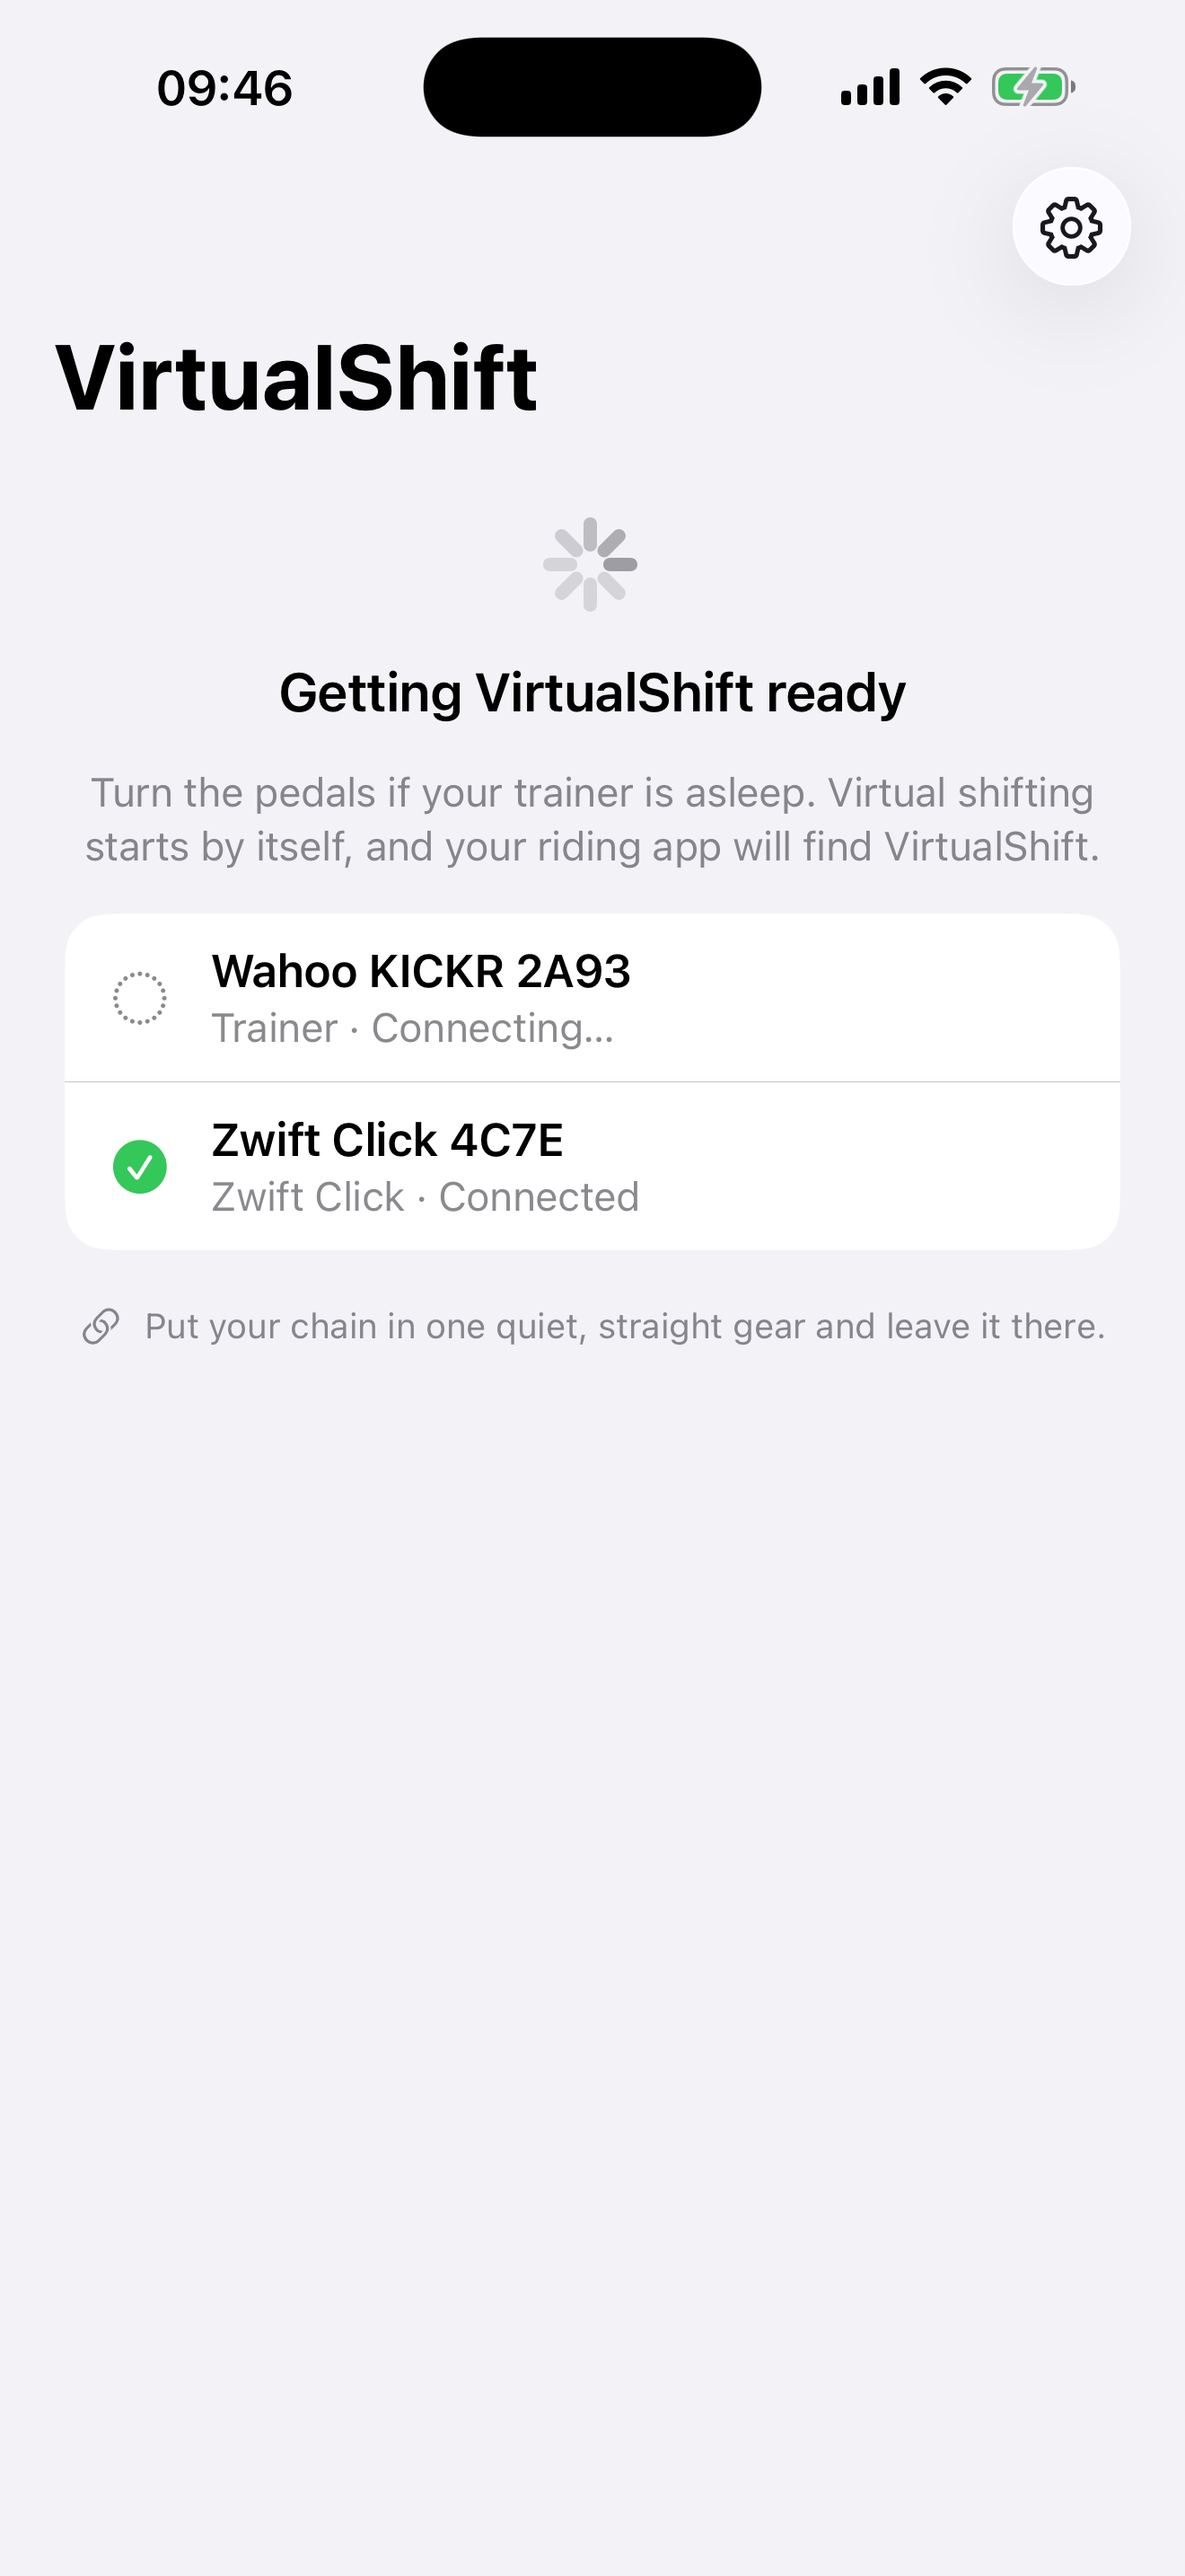
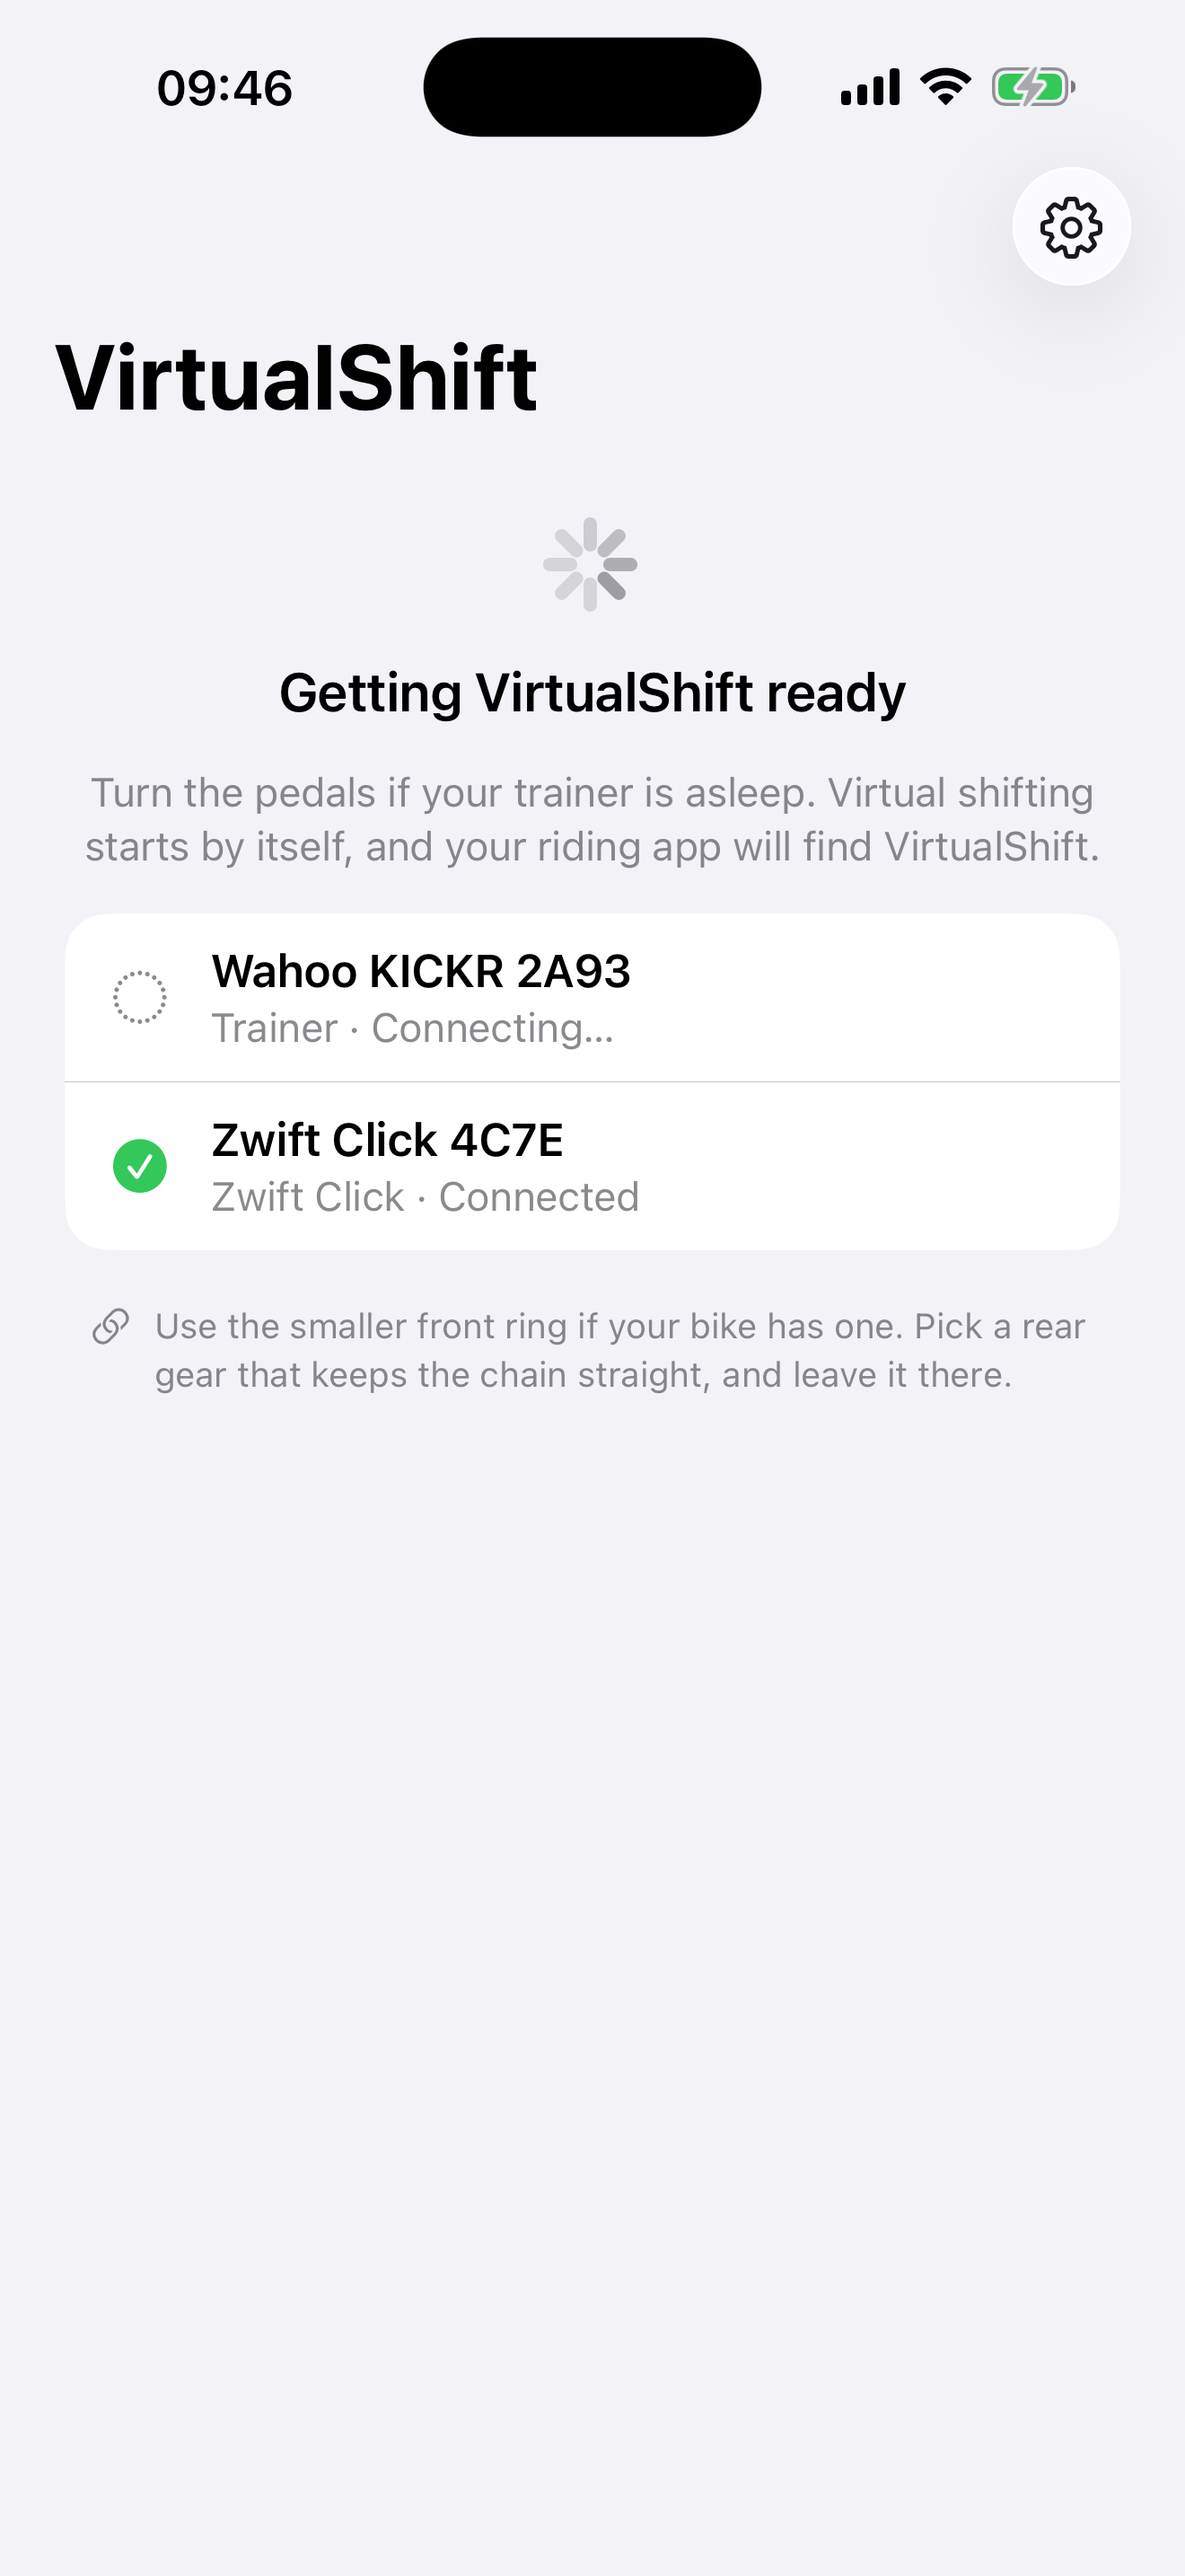
Explain the physical starting gear
Guide riders toward the smaller front ring and a straight chainline so the virtual ladder starts from an easier mechanical gear. Clarify that the wheel-size limits are our tested operating envelope, not the KICKR's known hardware limits, and refresh the startup screenshot.

Copilot-Session: 2c3d711c-cb97-4bfa-a302-2d01fe5d2f1f

diff --git a/VirtualShiftProduct/SetupView.swift b/VirtualShiftProduct/SetupView.swift
@@ -114,8 +114,9 @@ struct SetupView: View {
     private var chainLineSection: some View {
         Section {
             Label(
-                "Put your chain in one quiet, straight position and leave it "
-                    + "there. VirtualShift does all the shifting from now on.",
+                "Use the smaller front ring if your bike has one. Pick a rear gear "
+                    + "that keeps the chain straight, and leave it there. "
+                    + "VirtualShift does all the shifting from now on.",
                 systemImage: "link"
             )
             .font(.callout)

diff --git a/VirtualShiftProduct/VirtualShiftHomeView.swift b/VirtualShiftProduct/VirtualShiftHomeView.swift
@@ -210,7 +210,8 @@ private struct StartupView: View {
     /// The one thing the app cannot do for the rider.
     private var chainReminder: some View {
         Label(
-            "Put your chain in one quiet, straight gear and leave it there.",
+            "Use the smaller front ring if your bike has one. Pick a rear gear "
+                + "that keeps the chain straight, and leave it there.",
             systemImage: "link"
         )
         .font(.footnote)

diff --git a/README.md b/README.md
@@ -8,9 +8,10 @@
 
 VirtualShift gives you gears on an indoor trainer that has none.
 
-Your chain stays in one quiet, straight gear all ride. Shifting happens on your
-iPhone instead, which changes how hard the trainer feels. Nothing on the bike
-moves, so there is no chain noise, no dropped chain, and no wear.
+Use the smaller front ring if your bike has one, then pick a rear gear that keeps
+the chain straight and leave it there. Shifting happens on your iPhone instead,
+which changes how hard the trainer feels. Nothing on the bike moves, so there is
+no chain noise, no dropped chain, and no wear.
 
 ```text
 riding app on your computer  <->  iPhone running VirtualShift  <->  KICKR V5
@@ -99,11 +100,13 @@ the ride carries on at the size it already had.
 
 ## Safety
 
-The 646.9-4800 mm range was confirmed on a physical KICKR V5, every value
-acknowledged by the trainer, with the reference restored between each probe.
-VirtualShift never asks for anything outside it. Ending virtual shifting removes
-VirtualShift's gear and returns to the riding app's latest wheel size, or to the
-trainer's starting size if the riding app did not set one.
+The selected 646.9-4800 mm operating range was confirmed on a physical KICKR V5,
+every value acknowledged by the trainer, with the reference restored between
+each probe. These are the edges we chose to test, not a claim that the KICKR
+rejects values outside them. VirtualShift never asks for anything outside the
+tested range. Ending virtual shifting removes VirtualShift's gear and returns to
+the riding app's latest wheel size, or to the trainer's starting size if the
+riding app did not set one.
 
 Wheel size is sent in tenths of a millimetre, so what the trainer receives is
 what the safety check judges.

diff --git a/docs/how-it-works.md b/docs/how-it-works.md
@@ -9,11 +9,10 @@ app's own terrain command is left untouched, so the two never fight.
 
 ## Where the gears sit
 
-Every gear is scaled away from a 2070 mm reference. The trainer accepts that
-scaling over a lopsided range — about 2.3 times harder but 3.2 times easier — so
-the starting gear is placed where the tighter end has the most room, rather than
-in the middle. A drivetrain too wide to fit is refused at setup rather than
-mid-ride.
+Every gear is scaled away from a 2070 mm reference. We tested a lopsided
+operating range — about 2.3 times harder but 3.2 times easier — so the starting
+gear is placed where the tighter end has the most room, rather than in the
+middle. A drivetrain too wide to fit is refused at setup rather than mid-ride.
 
 ## When the riding app has its own idea
 

diff --git a/docs/safety.md b/docs/safety.md
@@ -6,9 +6,11 @@ app asks for.
 
 ## The range was measured, not guessed
 
-The 646.9–4800 mm range was confirmed on a physical KICKR V5, every value
-acknowledged by the trainer, with the reference restored between each probe.
-VirtualShift never asks for anything outside it.
+The selected 646.9–4800 mm operating range was confirmed on a physical KICKR V5,
+every value acknowledged by the trainer, with the reference restored between
+each probe. These are the edges we chose to test, not a claim that the KICKR
+rejects values outside them. VirtualShift never asks for anything outside the
+tested range.
 
 Wheel size is sent in tenths of a millimetre, so what the trainer receives is
 exactly what the safety check judged.

diff --git a/docs/index.md b/docs/index.md
@@ -6,9 +6,10 @@
 
 **VirtualShift gives you gears on an indoor trainer that has none.**
 
-Your chain stays in one quiet, straight gear all ride. Shifting happens on your
-iPhone instead, which changes how hard the trainer feels. Nothing on the bike
-moves, so there is no chain noise, no dropped chain, and no wear.
+Use the smaller front ring if your bike has one, then pick a rear gear that keeps
+the chain straight and leave it there. Shifting happens on your iPhone instead,
+which changes how hard the trainer feels. Nothing on the bike moves, so there is
+no chain noise, no dropped chain, and no wear.
 
 !!! quote "Why this exists"
 
